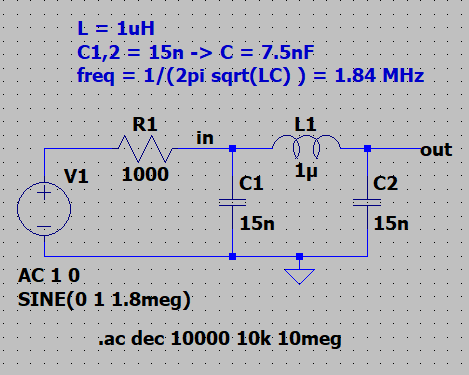
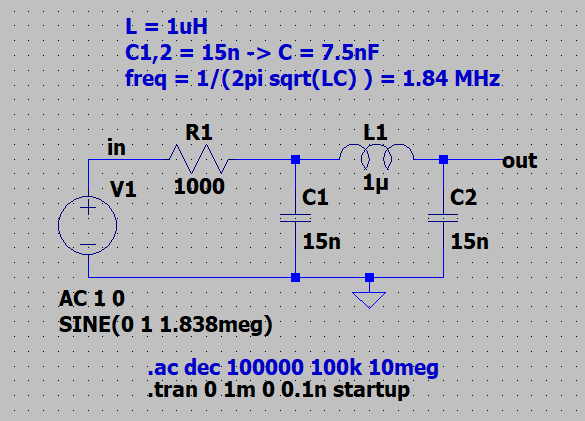
Transient plots.

diff --git a/_drafts/2025-06-27-HP10811-Colpitts-Oscillator.md b/_drafts/2025-06-27-HP10811-Colpitts-Oscillator.md
@@ -101,14 +101,17 @@ But I find it more intuitive to redraw it in a way that make it the input and
 the output more obvious. Let's also add an AC source so that we can do a small signal
 AC simulation in LTspice:
 
-![Inductor with 2 capacitors, center is strppaed to ground, AC simulation](/assets/hp10811/l_double_c_with_center_to_ground_ac_schematic.png)
+![Inductor with 2 capacitors, center is strapped to ground, AC simulation](/assets/hp10811/l_double_c_with_center_to_ground_ac_schematic.png)
 
 I added a series 1000 Ohm resistor after the AC source to simulate the output impedance
-of the amplifier.[^series_resistor]
+of the amplifier.[^series_resistor] A 1k output impedance is in the ballpark of what
+you'd expect for a common-emitter transistor amplifier.
 
 [^series_resistor]: When this resistor becomes very small, it impacts the resonance frequency of
                     the LC tank because at that point, the AC source essentially cancels capacitor
                     C1 and the resonance is determined by the values of L1 and C2 only.
+
+The Bode plot of the small signal AC simulation looks like this:
 
 [![Bode plots of previous schematic, AC simulation](/assets/hp10811/l_double_c_with_center_to_ground_ac_schematic_bode.png)](/assets/hp10811/l_double_c_with_center_to_ground_ac_schematic_bode.png)
 *(Click to enlarge)*
@@ -116,12 +119,44 @@ of the amplifier.[^series_resistor]
 There are a few things to note:
 
 * the resonance frequency is 1.84 MHz.
-* at the resonance frequency, the gain is 0 dB.[^resonance_attn]
+* at the resonance frequency, the output voltage is 0 dB which corresponds to 1V.[^resonance_attn]
 * the phase shift at the resonance frequency is 180 degrees.
 
 [^resonance_attn]: it's not quite 0 dB because LTspice uses a default series resistance of
                    1 mOhm for inductors and because the simulation does the resonance
                    frequency perfectly. 
+
+We can verify these results in the time domain by running a transient simulation. It's
+important to specify a small enough simulation time step, otherwise the output amplitude
+can be much smaller than expected.
+
+After powering up, it take a while for the simulation to reach a steady state, but once
+that happens, the output amplitude is ~1 V, just like the AC simulation:
+
+[![Transient simulation of the previous schematic](/assets/hp10811/l_double_c_with_center_to_ground_ac_schematic_transient.png)](/assets/hp10811/l_double_c_with_center_to_ground_ac_schematic_transient.png)
+
+When we zoom in, we can see that there's indeed a 180 degree phase difference between input and output:
+
+[![Transient simulation of the previous schematic, zoomed in](/assets/hp10811/l_double_c_with_center_to_ground_ac_schematic_transient_zoom.png)](/assets/hp10811/l_double_c_with_center_to_ground_ac_schematic_transient_zoom.png)
+
+In the L/C tank, capacitors C1 and C2 are in series, resulting in an equivalent
+capacitance of $$C=\frac{C1 + C2}{(C1 * C2}$$. The resonance frequency can be calculated
+as follows: $$f = \frac{1}{2 \pi \sqrt{LC} }$$.
+
+We can play with the gain at the output by playing with the ratio of C1 and C2, while keeping the 
+resonance frequency the same.
+
+For example, if we use values ..., the gain is ...
+
+
+We can also see that the amplitude ratio between either side of the inductor
+depends on the ratio of the 2 capacitors.
+
+
+
+
+# HP 10811
+
 
 In the L/C tank, capacitors C1 and C2 are in series, resulting in an equivalent
 capacitance of $$C=\frac{C1 + C2}{(C1 * C2}$$. The resonance frequency can be calculated
